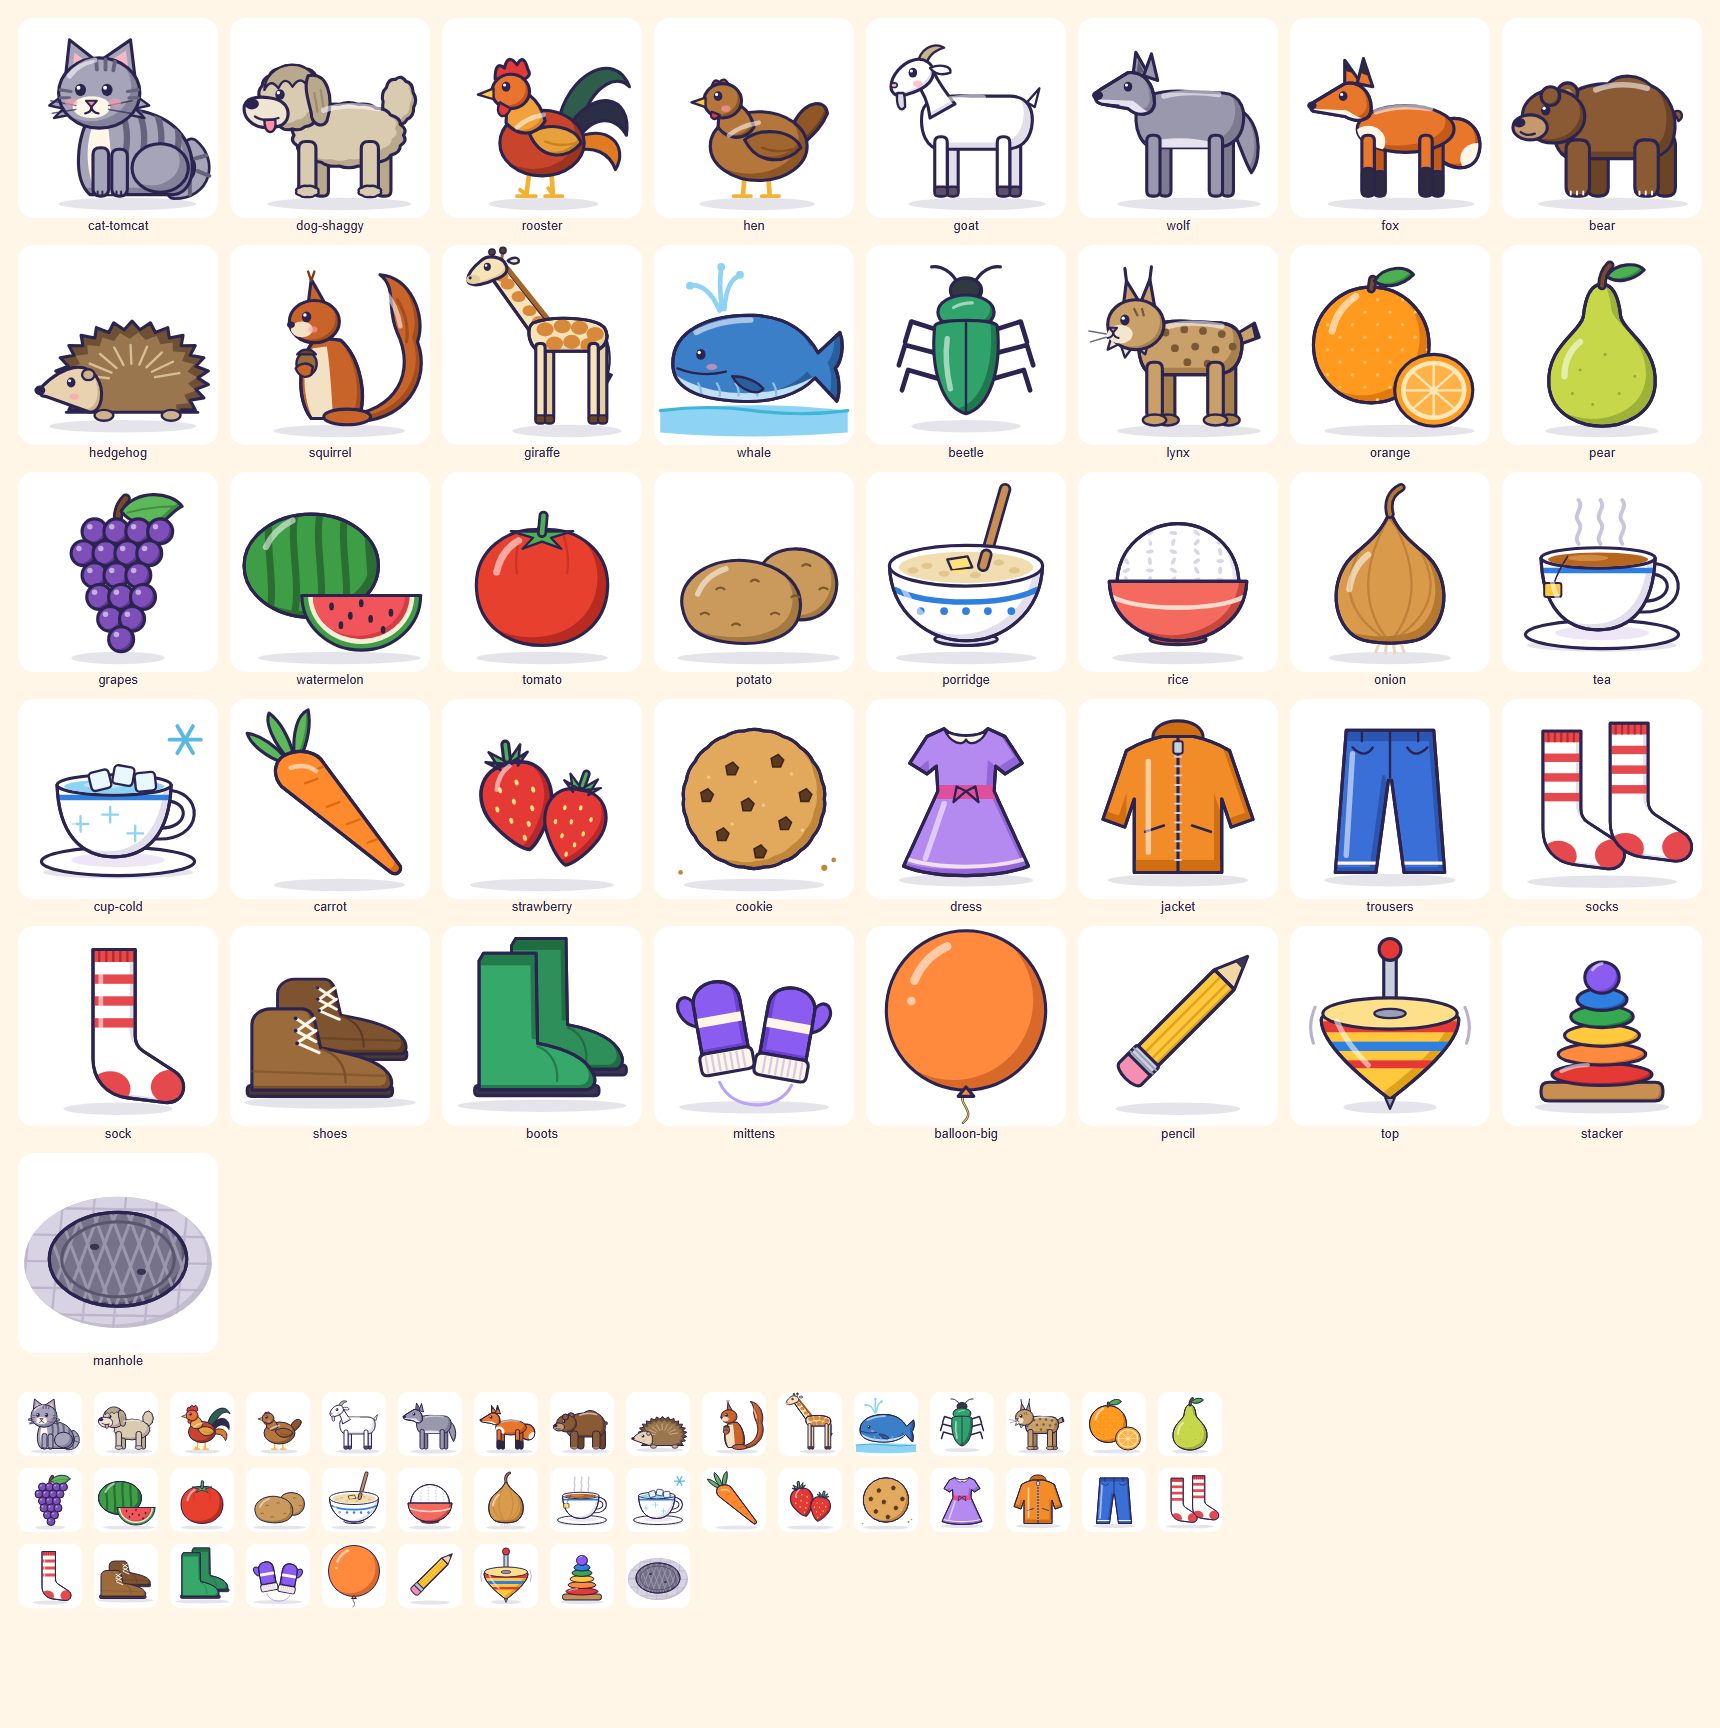
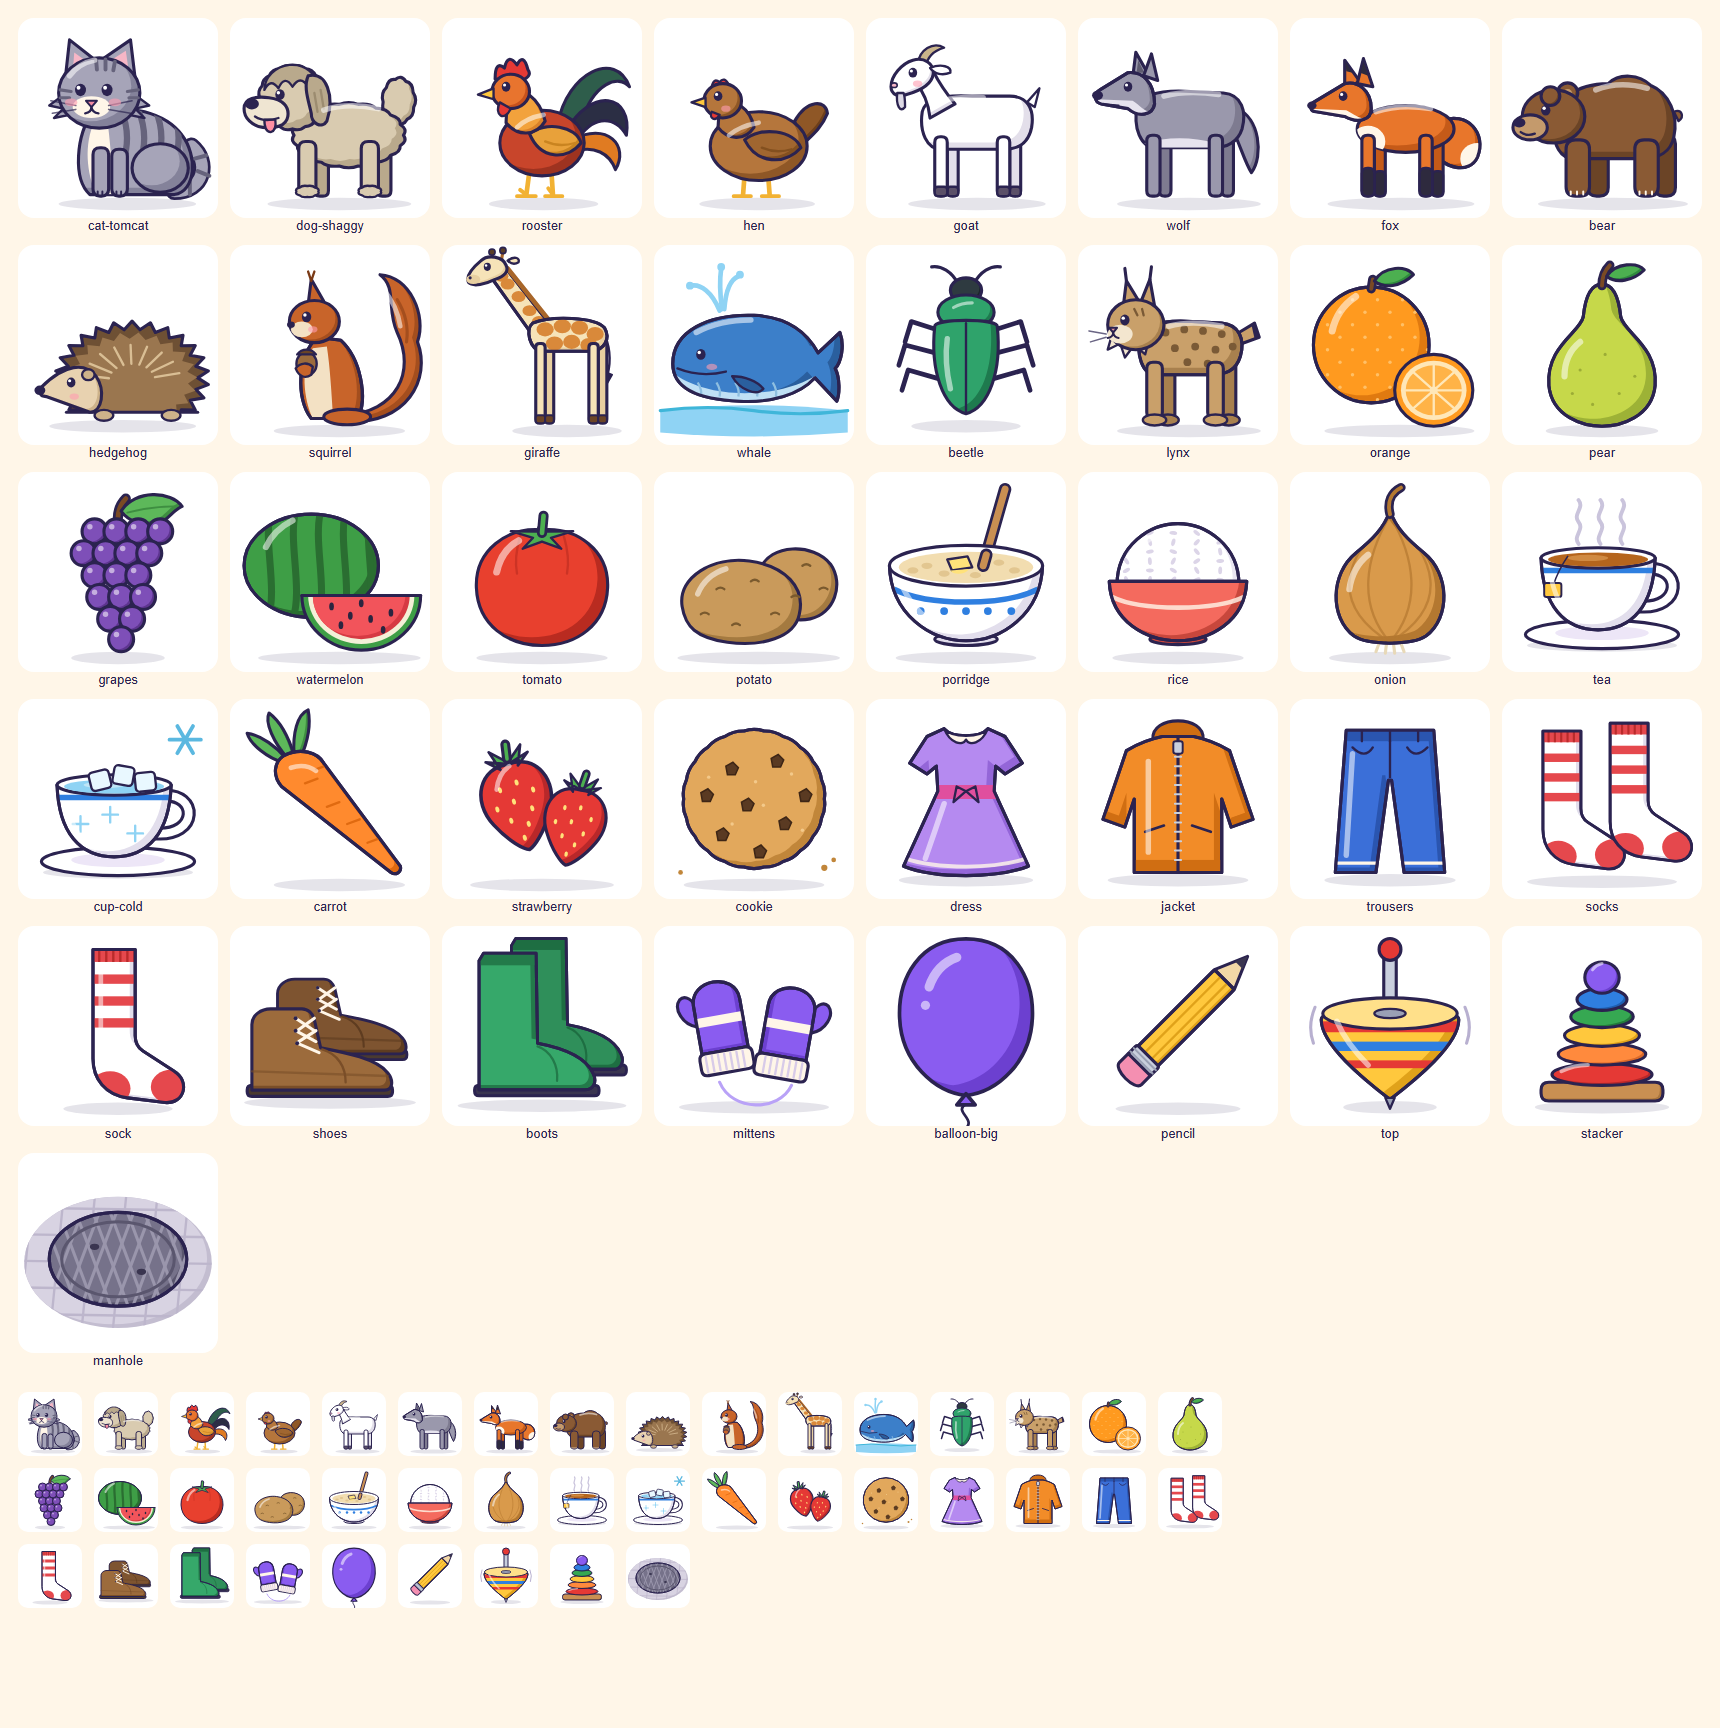
Languages pictures: balloon-big redrawn as a balloon (the oval, knot and string of the small balloon, bigger, its string running off the tile, violet), so at 64 px it is never the orange fruit or a ball; pictures_batch2a.png and pictures.md updated

Changed region(s): [[0.493, 0.5312, 0.6163, 0.6562], [0.1849, 0.875, 0.2157, 0.9375]]

diff --git a/tools/make_language_pictures_b2.py b/tools/make_language_pictures_b2.py
@@ -8,8 +8,8 @@ muzzle and a hanging tail, the fox orange with black socks and a white tail tip,
 tufts and a stub tail, the tomcat a striped grey cat; the rooster has a tall comb and an arched dark tail, the hen is
 brown with a short tail; the orange shows a cut half, the tomato a green star on top, the apple a stem and leaf; soup is a
 blue bowl of broth with steam, porridge a white bowl of thick oats with butter and an upright wooden spoon, rice a white
-dome of grains in a coral bowl; shoes are low with laces, boots reach the knee; the big balloon is round, the small one
-oval.
+dome of grains in a coral bowl; shoes are low with laces, boots reach the knee; the big balloon is the small one's oval
+scaled up past the tile, in violet (never the orange fruit's colour).
 
 References looked at on 2026-11-03 (facts and photographs; the look is ours):
   Part a (Russian animals, food, clothes, toys):
@@ -798,13 +798,19 @@ def mittens():
 # ---- part a: toys and a street thing -------------------------------------------------------------------------------
 
 def balloon_big():
+    """Russian shar: a big balloon. The same oval, knot and string as `balloon`, scaled up so it fills the tile and its
+    string runs off the bottom edge (the size cue), and in violet, a colour that is neither the orange fruit nor one of
+    the colour-set balloons or balls."""
+    f, s = '#8A5CF0', '#6C40D0'
     p = Pic()
-    p.line('M 128 214 C 112 226, 144 236, 124 252', INK, 3)
-    p.line('M 128 214 C 112 226, 144 236, 124 252', '#FFC83D', 1.5)
-    p.shaded(ell(128, 108, 102, 102), '#FF8A3D', '#D9692A', k=16)
-    p.path('M 118 218 L 128 206 L 138 218 Z', '#FF8A3D')
-    p.hl('M 62 70 Q 74 40 104 26', 11)
-    p.add('<circle cx="58" cy="96" r="5.5" fill="%s" opacity="0.55"/>' % WHITE)
+    p.line('M 128 228 C 110 238, 146 248, 124 262', INK, 3.5)
+    p.add('<g transform="translate(128 0) scale(1.18) translate(-128 0)">')
+    body = 'M 128 14 C 178 14, 202 56, 200 100 C 198 148, 162 180, 128 184 C 94 180, 58 148, 56 100 C 54 56, 78 14, 128 14 Z'
+    p.shaded(body, f, s, k=14)
+    p.path('M 118 194 L 128 182 L 138 194 Z', f)
+    p.hl('M 88 66 Q 96 42 118 34', 10)
+    p.add('<circle cx="84" cy="86" r="5" fill="%s" opacity="0.55"/>' % WHITE)
+    p.add('</g>')
     return p
 
 

diff --git a/docs/languages/pictures.md b/docs/languages/pictures.md
@@ -111,7 +111,7 @@ colour patches, the rabbit's tail and the English second looks). Choices made wh
   stripe) and horse (bay); chick (round, pointed beak, beside its eggshell) and duckling (flat bill); orange (a cut half),
   tomato (a green star on top), apple (stem and leaf); soup (a blue bowl of broth, steam), porridge (a white bowl of thick
   oats, butter, an upright wooden spoon), rice (a white dome in a coral bowl), sugar (cubes in a mint bowl); shoes (low,
-  laced) and boots (to the knee); `balloon-big` round, `balloon` oval; `sun` with rays, `star` with five points, `moon` a
+  laced) and boots (to the knee); `balloon-big` is the same oval balloon, knot and string, bigger (it fills the tile and its string runs off the bottom edge) and violet, never orange like the fruit or a colour of the colour sets (redrawn 2026-11-03: the first round orange disc read as the orange or a ball); `sun` with rays, `star` with five points, `moon` a
   crescent in a night circle (so it is never a banana); `bush` low with no trunk, `tree` with a trunk.
 - **`sandal` is a pair seen from above** (one sandal in side view read as loops on a board); for the
   hebrew-language-teacher, the word is סַנְדָּל (one), the picture shows two.
